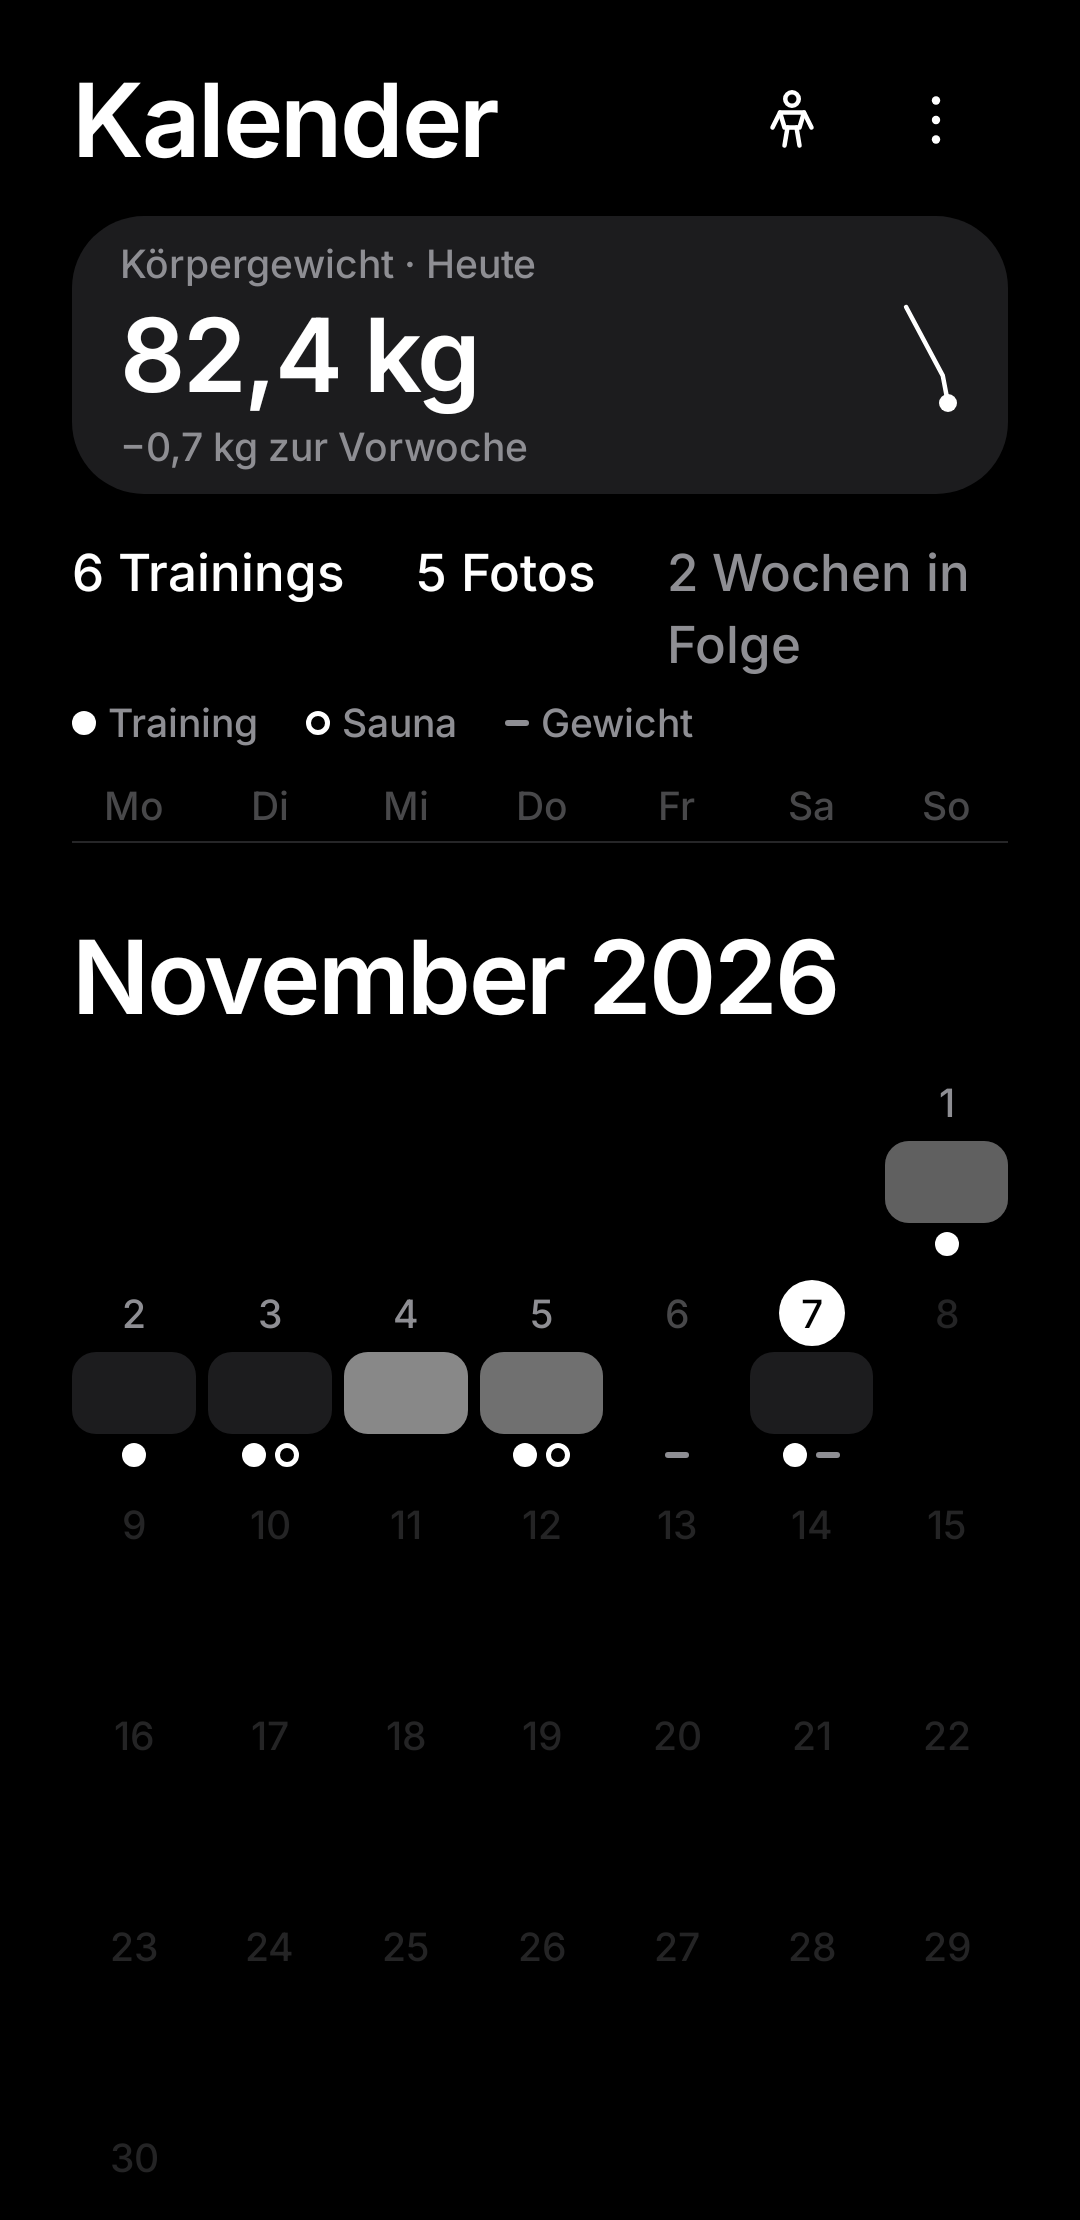
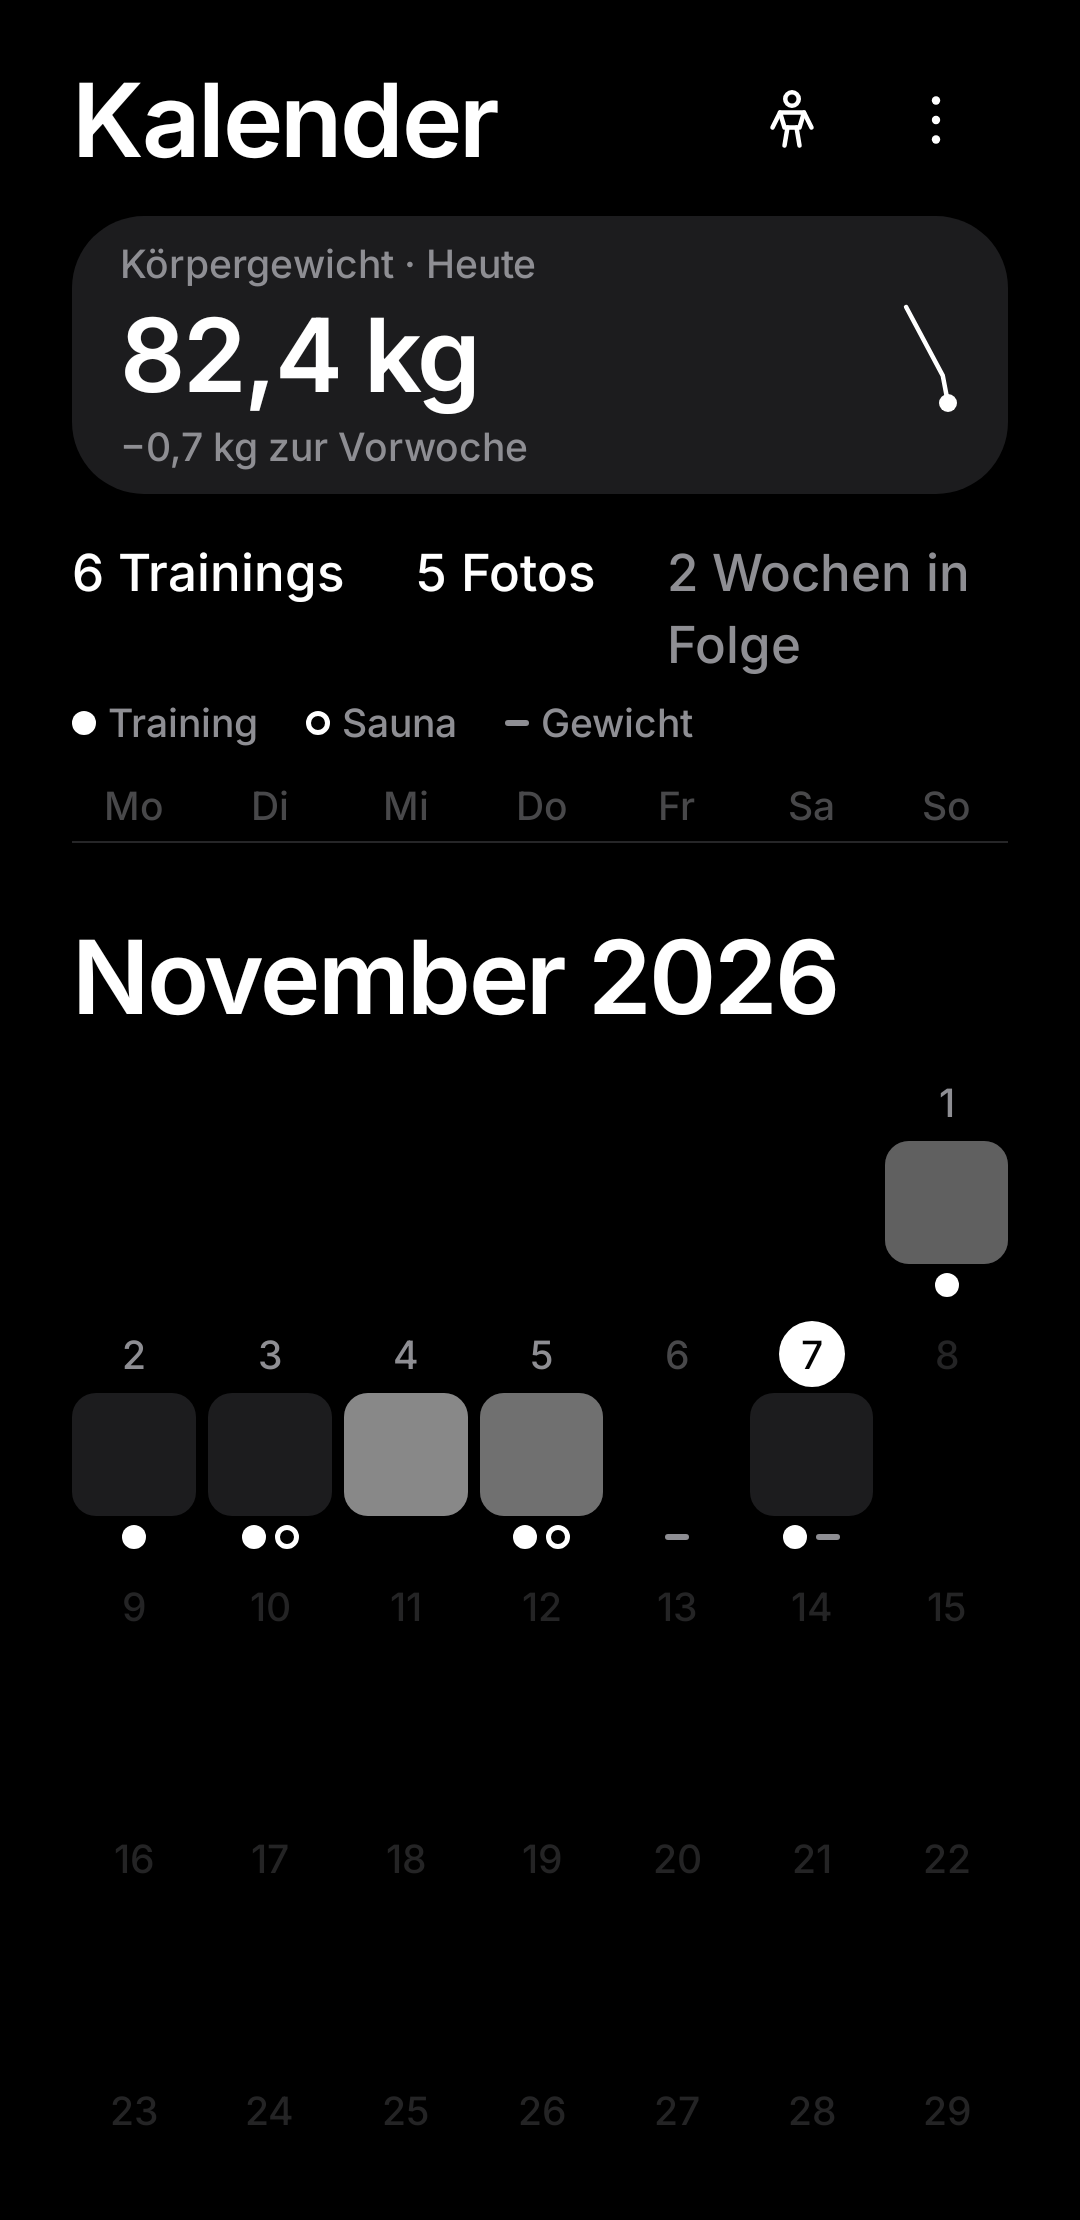
wip

diff --git a/app/src/test/java/app/overfit/ui/DayShotTest.kt b/app/src/test/java/app/overfit/ui/DayShotTest.kt
@@ -1,0 +1,131 @@
+package app.overfit.ui
+
+import androidx.compose.foundation.background
+import androidx.compose.foundation.layout.Box
+import androidx.compose.foundation.layout.height
+import androidx.compose.foundation.layout.width
+import androidx.compose.runtime.CompositionLocalProvider
+import androidx.compose.ui.Modifier
+import androidx.compose.ui.graphics.asAndroidBitmap
+import androidx.compose.ui.platform.testTag
+import androidx.compose.ui.test.captureToImage
+import androidx.compose.ui.test.junit4.v2.createComposeRule
+import androidx.compose.ui.test.onNodeWithTag
+import androidx.compose.ui.unit.dp
+import androidx.test.core.app.ApplicationProvider
+import app.overfit.data.DiaryPhoto
+import app.overfit.data.WorkoutPhoto
+import app.overfit.data.db.HistoryRow
+import app.overfit.domain.Language
+import app.overfit.domain.WeightEntry
+import app.overfit.domain.WeightUnit
+import app.overfit.i18n.LocalStrings
+import app.overfit.i18n.stringsFor
+import app.overfit.ui.photos.PhotosScreen
+import app.overfit.ui.theme.OverfitTheme
+import app.overfit.ui.theme.Theme
+import coil3.SingletonImageLoader
+import kotlinx.datetime.LocalDate
+import kotlinx.datetime.TimeZone
+import kotlinx.datetime.atStartOfDayIn
+import org.junit.Assume.assumeTrue
+import org.junit.Rule
+import org.junit.Test
+import org.junit.rules.TemporaryFolder
+import org.junit.runner.RunWith
+import org.robolectric.RobolectricTestRunner
+import org.robolectric.annotation.Config
+import org.robolectric.annotation.GraphicsMode
+import java.io.File
+
+/**
+ * Evidence screenshots (360 dp, dark) of a calendar day: trainings, photos, weight. Real (grey) photo files.
+ * Runs only with `SCREENSHOT_DIR` (before/after: same class, different directory).
+ */
+@RunWith(RobolectricTestRunner::class)
+@GraphicsMode(GraphicsMode.Mode.NATIVE)
+@Config(sdk = [35], qualifiers = "w360dp-h1100dp-xxhdpi")
+@OptIn(coil3.annotation.DelicateCoilApi::class)
+class DayShotTest {
+    @get:Rule(order = 0)
+    val tmp = TemporaryFolder()
+
+    @get:Rule(order = 1)
+    val compose = createComposeRule()
+
+    private val day = LocalDate(2026, 11, 7)
+    private fun ms(h: Int) = day.atStartOfDayIn(TimeZone.currentSystemDefault()).toEpochMilliseconds() + h * 3_600_000L
+
+    /** A small one-coloured grey JPEG, so the previews show up. */
+    private fun jpeg(id: String, grey: Int): String {
+        val bmp = android.graphics.Bitmap.createBitmap(60, 80, android.graphics.Bitmap.Config.ARGB_8888)
+        bmp.eraseColor(android.graphics.Color.rgb(grey, grey, grey))
+        val f = File(tmp.root, "$id.jpg")
+        f.outputStream().use { bmp.compress(android.graphics.Bitmap.CompressFormat.JPEG, 90, it) }
+        return f.absolutePath
+    }
+
+    private val bank = app.overfit.domain.Exercise("c:bank", "Bankdrücken", app.overfit.domain.ExerciseSource.CUSTOM, null, emptyList(), emptyList(), null, app.overfit.domain.TrackingType.WEIGHT_REPS, 90)
+    private val ohp = bank.copy(id = "c:ohp", name = "Schulterdrücken")
+    private val dips = bank.copy(id = "c:dips", name = "Dips", trackingType = app.overfit.domain.TrackingType.REPS)
+
+    private fun workout(): app.overfit.domain.Workout {
+        var w = app.overfit.domain.Workout.fromTemplate(
+            app.overfit.domain.Template(1, "Push", null, listOf(
+                app.overfit.domain.TemplateExercise(bank, 90, null, List(3) { app.overfit.domain.PlannedSet(80.0, 8) }),
+                app.overfit.domain.TemplateExercise(ohp, 90, null, List(3) { app.overfit.domain.PlannedSet(45.0, 10) }),
+                app.overfit.domain.TemplateExercise(dips, 60, null, List(2) { app.overfit.domain.PlannedSet(reps = 12) }),
+            )),
+            ms(18), id = "s1",
+        )
+        w.exercises.forEach { e -> e.sets.forEach { w = w.setValues(it.id, it.target).completeSet(it.id, ms(19)) } }
+        return w
+    }
+
+    private fun shot(name: String, content: @androidx.compose.runtime.Composable () -> Unit) {
+        val dir = System.getenv("SCREENSHOT_DIR")
+        assumeTrue(dir != null)
+        val ctx = ApplicationProvider.getApplicationContext<android.content.Context>()
+        // Robolectric has no ImageDecoder: decode the JPEGs with BitmapFactory.
+        val loader = coil3.ImageLoader.Builder(ctx).components { add(coil3.decode.BitmapFactoryDecoder.Factory()) }.build()
+        SingletonImageLoader.setUnsafe(loader)
+        // Warm Coil's memory cache, so the previews are there on the first frames.
+        File(tmp.root.path).listFiles().orEmpty().forEach { f ->
+            val r = kotlinx.coroutines.runBlocking { loader.execute(coil3.request.ImageRequest.Builder(ctx).data(f.absolutePath).build()) }
+            println("preload ${f.name}: ${r::class.simpleName} ${(r as? coil3.request.ErrorResult)?.throwable}")
+        }
+        compose.setContent {
+            OverfitTheme {
+                CompositionLocalProvider(LocalStrings provides stringsFor(Language.DE)) {
+                    Box(Modifier.width(360.dp).height(1100.dp).background(Theme.colors.background).testTag("shot")) {
+                        app.overfit.ui.components.ConfirmArea(Modifier) { content() }
+                    }
+                }
+            }
+        }
+        // Coil decodes the files off the main thread: give it time.
+        repeat(60) { Thread.sleep(50); compose.mainClock.advanceTimeBy(50); compose.waitForIdle() }
+        val out = File(dir!!).also { it.mkdirs() }
+        File(out, "$name.png").outputStream().use {
+            compose.onNodeWithTag("shot").captureToImage().asAndroidBitmap().compress(android.graphics.Bitmap.CompressFormat.PNG, 100, it)
+        }
+    }
+
+    @Test fun day() {
+        val photos = listOf(
+            DiaryPhoto(WorkoutPhoto("a", "s1", "a.jpg", ms(19), jpeg("a", 0x70)), "Push"),
+            DiaryPhoto(WorkoutPhoto("b", null, "b.jpg", ms(20), jpeg("b", 0x88)), null),
+        )
+        val history = listOf(HistoryRow("s1", "Push", ms(18), ms(19), null, 3, 8, 4370.0, 0).copy(sauna = true))
+        val weights = listOf(WeightEntry("2026-11-06", 82.6), WeightEntry("2026-11-07", 82.4))
+        val w = workout()
+        shot("tag") {
+            app.overfit.ui.photos.DayScreen(
+                day, photos, history, WeightUnit.KG, Language.DE,
+                onBack = {}, onOpenPhoto = {}, onOpenWorkout = {}, onAddPhoto = {}, onRemovePhoto = {},
+                weights = weights,
+                workouts = mapOf("s1" to w),
+            )
+        }
+    }
+}

diff --git a/shared/src/commonMain/kotlin/app/overfit/ui/photos/PhotoScreens.kt b/shared/src/commonMain/kotlin/app/overfit/ui/photos/PhotoScreens.kt
@@ -338,7 +338,8 @@ private fun WeekdayRow(weekStart: kotlinx.datetime.DayOfWeek) {
 
 private val CELL_GAP = 4.dp
 /** Width : height of a calendar day. */
-private const val CELL_ASPECT = 0.62f
+/** Height of a cell besides its square tile: number circle, gaps, marker row and the 2-dp padding top and bottom. */
+private val CELL_CHROME = DAY_NUMBER_SIZE + 2.dp + MARKER_GAP + MARKER_SIZE + 4.dp
 
 @Composable
 private fun MonthBlock(
@@ -362,12 +363,13 @@ private fun MonthBlock(
             style = Theme.type.title,
         )
         cells.chunked(7).forEach { week ->
-            // One height for the whole week (from the cell width), so every cell – and its marker row – lines up to
-            // the pixel; an aspect ratio per cell would round differently for 43 vs 44 px wide cells.
+            // One height for the whole week (square tile from the cell width plus fixed chrome), so every cell – and its
+            // marker row – lines up to the pixel; a size per cell would round differently for 43 vs 44 px wide cells.
             Row(
                 Modifier.fillMaxWidth().padding(bottom = CELL_GAP).layout { measurable, constraints ->
                     val cellWidth = (constraints.maxWidth - 6 * CELL_GAP.roundToPx()) / 7f
-                    val h = (cellWidth / CELL_ASPECT).roundToInt()
+                    // The tile is square (as wide as the cell), the rest is the fixed chrome.
+                    val h = (cellWidth + CELL_CHROME.toPx()).roundToInt()
                     val placeable = measurable.measure(constraints.copy(minHeight = h, maxHeight = h))
                     layout(placeable.width, placeable.height) { placeable.place(0, 0) }
                 },

diff --git a/app/src/test/java/app/overfit/ui/DiaryScreenTest.kt b/app/src/test/java/app/overfit/ui/DiaryScreenTest.kt
@@ -8,6 +8,7 @@ import androidx.compose.ui.test.onNodeWithContentDescription
 import androidx.compose.ui.test.onNodeWithText
 import androidx.compose.ui.test.performClick
 import androidx.compose.ui.test.performScrollTo
+import androidx.compose.ui.test.performScrollToIndex
 import androidx.compose.ui.test.performTouchInput
 import androidx.compose.ui.test.swipeLeft
 import androidx.compose.ui.test.assertIsDisplayed
@@ -235,7 +236,9 @@ class DiaryScreenTest {
         // Photo day: ring next to the workout dot; training-only day: ring below the dot; no sauna: no ring.
         compose.onNode(hasContentDescription("Tag 2, 2 Fotos, Sauna") and ring, useUnmergedTree = true).assertIsDisplayed()
         compose.onNode(hasContentDescription("Tag 1, Training") and !ring, useUnmergedTree = true).assertIsDisplayed()
-        compose.onNode(hasContentDescription("Tag 30, Training, Sauna") and ring, useUnmergedTree = true).performScrollTo().assertIsDisplayed()
+        // October is the next month in the list (square tiles: it is below the screen until scrolled to).
+        compose.onNodeWithTag(app.overfit.ui.photos.DIARY_GRID_TAG).performScrollToIndex(app.overfit.domain.DiaryCalendar.MONTHS_AHEAD + 1)
+        compose.onNode(hasContentDescription("Tag 30, Training, Sauna") and ring, useUnmergedTree = true).assertIsDisplayed()
     }
 
     @Test fun noLegendWithoutSauna() {

diff --git a/app/src/test/java/app/overfit/ui/WeightCalendarTest.kt b/app/src/test/java/app/overfit/ui/WeightCalendarTest.kt
@@ -117,7 +117,7 @@ class WeightCalendarTest {
 
         // Into the past works as before; "Today" comes back from there too.
         compose.onNodeWithTag(DIARY_GRID_TAG).performScrollToIndex(16)
-        compose.onNodeWithText("Juni 2026").assertIsDisplayed()
+        compose.onNodeWithText("Juli 2026").assertIsDisplayed()
         compose.onNodeWithTag(TODAY_BUTTON_TAG).performClick()
         compose.waitUntil(5_000) { compose.onAllNodesWithTag(TODAY_BUTTON_TAG).fetchSemanticsNodes().isEmpty() }
         compose.onNodeWithText("November 2026").assertIsDisplayed()

diff --git a/shared/src/commonMain/kotlin/app/overfit/ui/photos/DayPhotoGrid.kt b/shared/src/commonMain/kotlin/app/overfit/ui/photos/DayPhotoGrid.kt
@@ -102,7 +102,7 @@ private fun AddTile(icon: Icon, label: String, size: Dp, onClick: () -> Unit, mo
     ) {
         LineIcon(icon)
         Spacer(Modifier.height(Space.xs))
-        Text(label, Modifier.fillMaxWidth(), style = Theme.type.caption.copy(textAlign = TextAlign.Center), tone = Tone.Muted)
+        Text(label, Modifier.fillMaxWidth(), style = Theme.type.caption, tone = Tone.Muted, align = TextAlign.Center)
     }
 }
 

diff --git a/app/src/test/java/app/overfit/ui/DayPathsTest.kt b/app/src/test/java/app/overfit/ui/DayPathsTest.kt
@@ -19,7 +19,7 @@ import app.overfit.data.TemplateRepository
 import app.overfit.data.WorkoutRepository
 import app.overfit.data.db.OverfitDatabase
 import app.overfit.data.db.photoDay
-import app.overfit.domain.CustomExerciseInput
+import app.overfit.data.CustomExerciseInput
 import app.overfit.domain.Language
 import app.overfit.domain.PlannedSet
 import app.overfit.domain.SetValues
